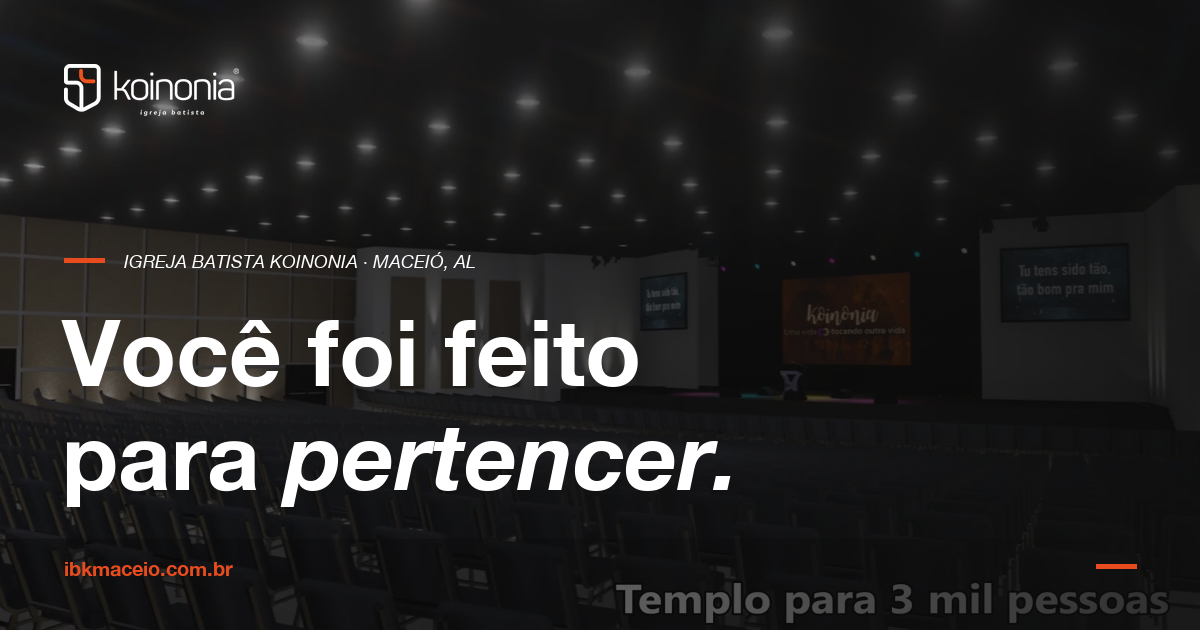
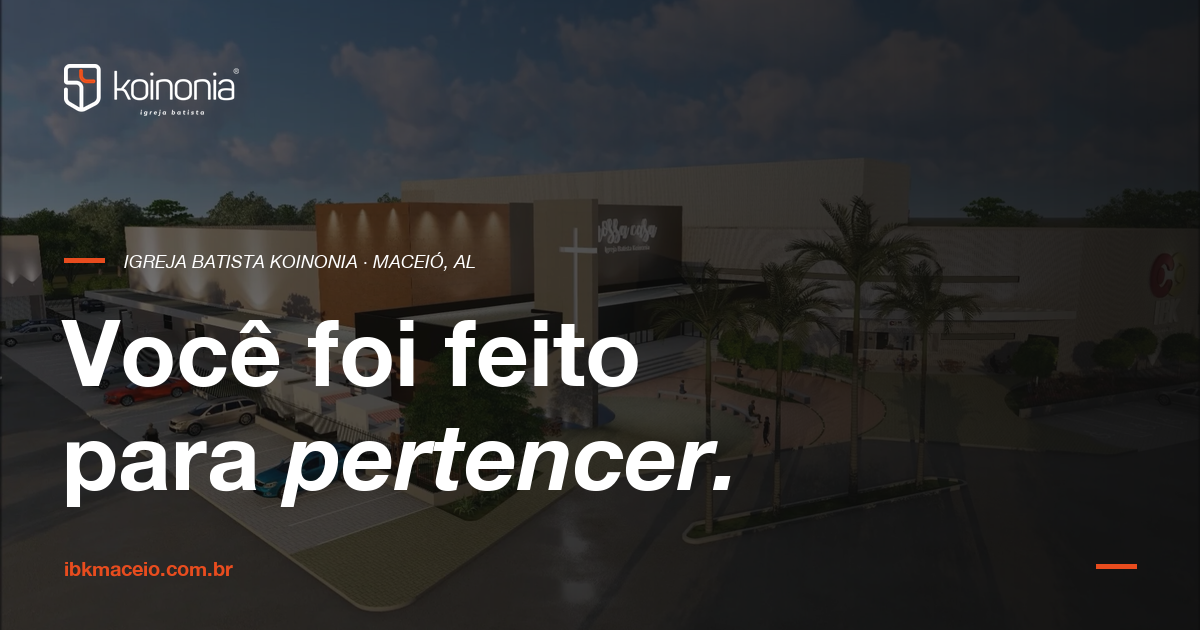
fix(og): substituir foto de fundo da OG default por fachada do novo templo
A foto anterior (auditório interno) continha texto sobreposto
('Templo para 3 mil pessoas', 'Koinonia' nos telões) que poluía o
card de compartilhamento. Trocado para a imagem da fachada externa,
que é limpa e remete ao 'templo' de forma institucional.

diff --git a/scripts/generate-og-images.py b/scripts/generate-og-images.py
@@ -71,8 +71,8 @@ def draw_text(canvas, xy, text, fnt, fill=WHITE):
 # OG 1 — Default (compartilhar o site)
 # ═════════════════════════════════════════════════════
 def gen_og_default():
-    bg = load_bg(IMG_DIR / "ibk-maceio-templo-3000-lugares-auditorio.webp")
-    canvas = dark_overlay(bg, from_alpha=120, to_alpha=220)
+    bg = load_bg(IMG_DIR / "ibk-maceio-complexo-novo-templo-fachada.webp")
+    canvas = dark_overlay(bg, from_alpha=140, to_alpha=230)
 
     # Logo superior esquerdo
     paste_logo(canvas, max_h=52, pos=(64, 64))